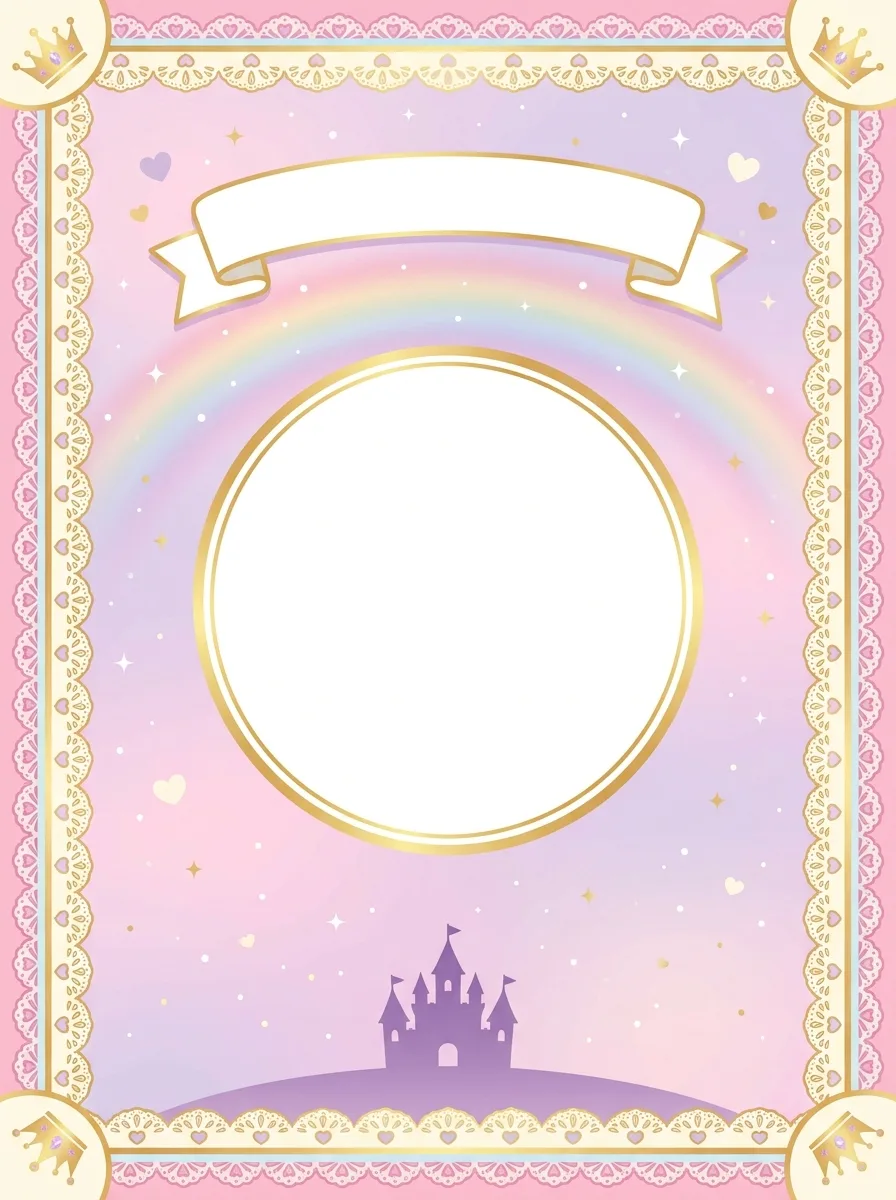
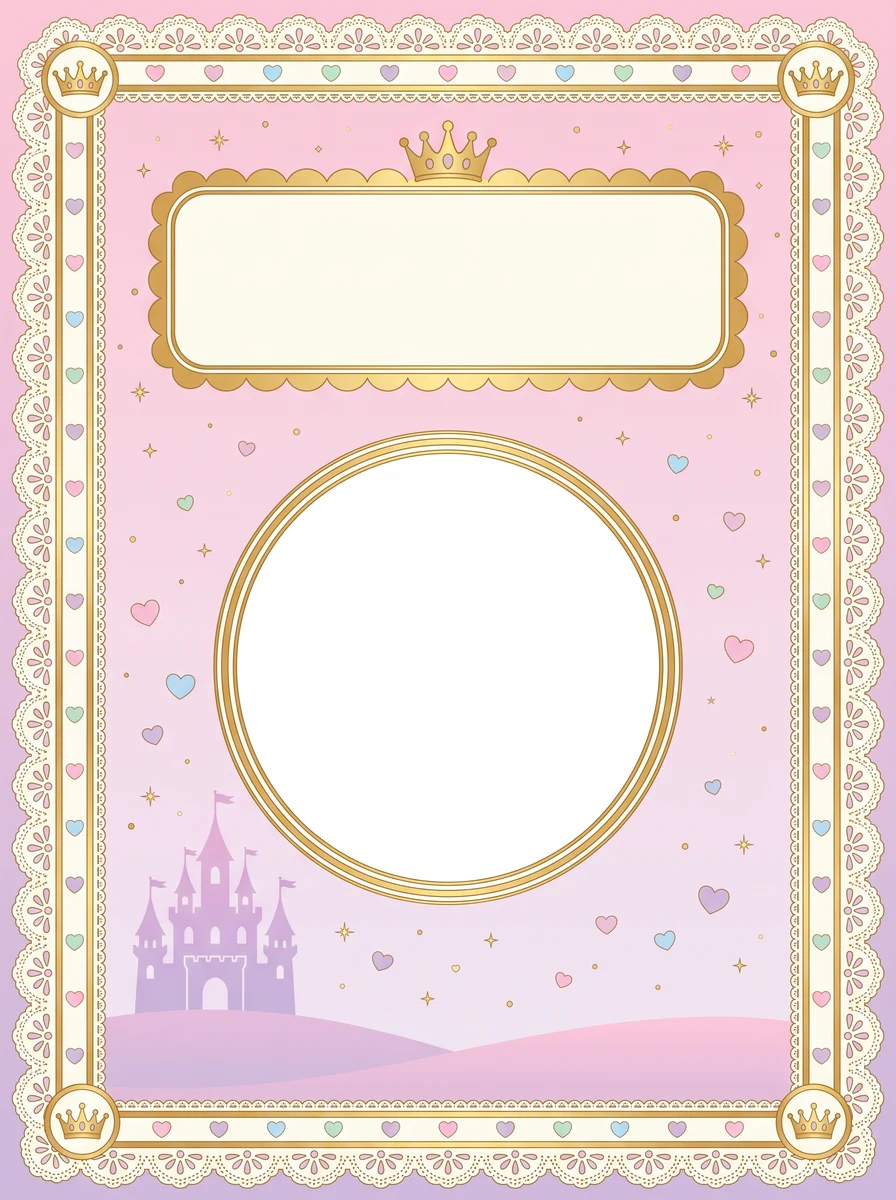
표지 제목이 리본 밖으로 흘러내리던 문제 + 공주나라 새 표지 틀
"팥죽 할머니와 호랑이"의 '랑이'가 리본 아래 표지 위에 떠 있었다(사장님 제보).

원인: 제목 칸의 높이·너비를 안 정해 두고 두 줄까지 허용했다. 리본 흰 자리는
표지 높이의 6% 남짓인데 두 줄은 그 두 배라 그대로 흘러내렸다. 너비도 58%로
고정이었는데 리본이 48%인 나라가 넷이라 옆으로도 삐져나오고 있었다.

고친 것:
- 제목 칸을 리본 크기로 못박고 그 안에서 가운데 맞춤으로 놓는다
- 긴 제목은 글자를 줄여 넣는다(coverTitleScale, 시험 포함) — 넘치는 대신 작아진다
- 일곱 나라의 리본 위치·높이·너비를 **표지 틀 그림에서 실제로 재서** 넣었다
  (눈대중 값이 최대 1% 어긋나 있었고, 너비는 넷이 리본보다 넓었다)

공주나라는 틀 자체를 새로 뽑았다(힉스필드). 제목 칸이 6.1% → 13.3%로
두 배 넘게 넓어져 긴 제목도 두 줄로 편하게 들어간다. 그림 원은 52% → 44%로
조금 작아졌지만 제목이 표지 위로 흘러내리는 것보다 낫다.

남은 것: 나머지 여섯 나라도 리본이 얕아 긴 제목은 여전히 작게 들어간다.
같은 방식으로 틀을 다시 뽑아야 완전히 풀린다.

diff --git a/src/lib/themes.ts b/src/lib/themes.ts
@@ -51,7 +51,10 @@ export type Theme = {
    */
   cover: {
     frame: string;
-    titleTop: string; // 리본 안 제목의 top %
+    titleTop: string; // 리본(제목 칸)의 세로 가운데 %
+    /** 제목 칸의 높이·너비(표지 대비 %). 안 적으면 기본값. 리본이 넓은 틀만 적는다. */
+    titleHeight?: string;
+    titleWidth?: string;
     circleTop: string; // 그림 원의 중심 top %
     circleWidth: string; // 그림 원의 지름 (틀 폭 대비 %)
     ink: string; // 제목·쪽수 글자색 (틀과 어울리는 짙은 색)
@@ -76,7 +79,9 @@ export const THEMES: Record<ThemeId, Theme> = {
     },
     cover: {
       frame: "/covers/frame-storybook.webp",
-      titleTop: "12%",
+      titleTop: "11.7%", // 아래 세 값은 표지 틀 그림에서 실제로 잰 것(리본 흰 칸)
+      titleHeight: "4.8%",
+      titleWidth: "43%",
       circleTop: "51.5%",
       circleWidth: "62%",
       ink: "#b45309", // 금테와 어울리는 앰버
@@ -100,7 +105,9 @@ export const THEMES: Record<ThemeId, Theme> = {
     cover: {
       // 전용 수채화 틀 — 잠든 여우·책더미·나뭇잎이 그려진 크림빛 프레임.
       frame: "/covers/frame-picturebook.webp",
-      titleTop: "14%",
+      titleTop: "14.4%", // 아래 세 값은 표지 틀 그림에서 실제로 잰 것(리본 흰 칸)
+      titleHeight: "6.9%",
+      titleWidth: "44%",
       circleTop: "52%",
       circleWidth: "52%",
       ink: "#a15c3e", // 틀의 크림·테라코타와 어울리는 짙은 브라운
@@ -117,7 +124,9 @@ export const THEMES: Record<ThemeId, Theme> = {
     icons: { voice: "/icons/func-mic.webp", book: "/themes/dino/icon-book.webp" },
     cover: {
       frame: "/covers/frame-dino.webp",
-      titleTop: "14%",
+      titleTop: "14.4%", // 아래 세 값은 표지 틀 그림에서 실제로 잰 것(리본 흰 칸)
+      titleHeight: "6.0%",
+      titleWidth: "44%",
       circleTop: "50.5%",
       circleWidth: "52%",
       ink: "#166534", // 정글 초록
@@ -134,7 +143,9 @@ export const THEMES: Record<ThemeId, Theme> = {
     icons: { voice: "/icons/func-mic.webp", book: "/themes/car/icon-book.webp" },
     cover: {
       frame: "/covers/frame-car.webp",
-      titleTop: "14.5%",
+      titleTop: "14.0%", // 아래 세 값은 표지 틀 그림에서 실제로 잰 것(리본 흰 칸)
+      titleHeight: "6.3%",
+      titleWidth: "55%",
       circleTop: "50.5%",
       circleWidth: "63%",
       ink: "#1d4ed8",
@@ -153,9 +164,13 @@ export const THEMES: Record<ThemeId, Theme> = {
     },
     cover: {
       frame: "/covers/frame-princess.webp",
-      titleTop: "15.5%",
-      circleTop: "50%",
-      circleWidth: "48%",
+      // 제목 명패가 넓어진 새 틀(2026-09-01). 값은 그림에서 실제로 재서 넣었다 —
+      // 흰 칸 세로 16.3~30.4%(가운데 23.3%), 그림 원 가운데 55.7%.
+      titleTop: "23.4%", // 아래 세 값은 표지 틀 그림에서 실제로 잰 것(리본 흰 칸)
+      titleHeight: "13.3%",
+      titleWidth: "56%",
+      circleTop: "55.7%",
+      circleWidth: "44%",
       ink: "#be185d",
     },
   },
@@ -169,7 +184,9 @@ export const THEMES: Record<ThemeId, Theme> = {
     icons: { voice: "/icons/func-mic.webp", book: "/themes/space/icon-book.webp" },
     cover: {
       frame: "/covers/frame-space.webp",
-      titleTop: "11.5%",
+      titleTop: "12.3%", // 아래 세 값은 표지 틀 그림에서 실제로 잰 것(리본 흰 칸)
+      titleHeight: "6.9%",
+      titleWidth: "59%",
       circleTop: "49.5%",
       circleWidth: "58%",
       ink: "#4338ca",
@@ -185,7 +202,9 @@ export const THEMES: Record<ThemeId, Theme> = {
     icons: { voice: "/icons/func-mic.webp", book: "/themes/ocean/icon-book.webp" },
     cover: {
       frame: "/covers/frame-ocean.webp",
-      titleTop: "14%",
+      titleTop: "15.0%", // 아래 세 값은 표지 틀 그림에서 실제로 잰 것(리본 흰 칸)
+      titleHeight: "6.2%",
+      titleWidth: "45%",
       circleTop: "50%",
       circleWidth: "57%",
       ink: "#0f766e",

diff --git a/src/components/Bookshelf.tsx b/src/components/Bookshelf.tsx
@@ -1,6 +1,7 @@
 "use client";
 
 import Link from "next/link";
+import { coverTitleScale } from "@/lib/fit-text";
 import { useTheme } from "./ThemeProvider";
 
 /**
@@ -92,12 +93,28 @@ export function Bookshelf({ books, cols = 5 }: { books: ShelfItem[]; cols?: numb
                 <div className="pointer-events-none absolute inset-x-0 top-0 h-1.5 bg-gradient-to-b from-black/20 to-transparent" />
                 <div className="pointer-events-none absolute inset-x-0 bottom-0 h-2 bg-gradient-to-t from-black/25 to-transparent" />
 
-                {/* 제목 — 리본 안 */}
+                {/*
+                  제목 — 리본 안.
+
+                  리본의 흰 자리는 표지 높이의 6~7%밖에 안 된다. 예전에는 높이를 안
+                  정해 두고 두 줄까지 허용해서, 두 줄이 되는 순간 아랫줄이 리본 밖으로
+                  흘러내렸다("팥죽 할머니와 호랑이"의 '랑이'가 리본 아래 떠 있었다).
+                  이제 리본만 한 칸을 정해 두고, 그 안에서 가운데 맞춤으로 놓는다.
+                  긴 제목은 글자를 줄여 넣는다 — 넘치는 대신 작아진다.
+                */}
                 <h2
-                  className="absolute left-1/2 w-[56%] -translate-x-1/2 overflow-hidden text-center text-[11px] font-extrabold leading-tight [display:-webkit-box] [-webkit-box-orient:vertical] [-webkit-line-clamp:2] sm:text-[13px]"
-                  style={{ top: `calc(${cover.titleTop} - 2%)`, color: cover.ink }}
+                  className="absolute left-1/2 flex -translate-x-1/2 -translate-y-1/2 items-center justify-center overflow-hidden text-center font-extrabold leading-[1.15]"
+                  style={{
+                    top: cover.titleTop,
+                    width: cover.titleWidth ?? "58%",
+                    height: cover.titleHeight ?? "9%",
+                    color: cover.ink,
+                    fontSize: `${13 * coverTitleScale(book.title)}px`,
+                  }}
                 >
-                  {book.title}
+                  <span className="[display:-webkit-box] [-webkit-box-orient:vertical] [-webkit-line-clamp:2] overflow-hidden">
+                    {book.title}
+                  </span>
                 </h2>
 
                 {/* 그림 — 원 창 안 */}

diff --git a/src/lib/fit-text.test.ts b/src/lib/fit-text.test.ts
@@ -1,6 +1,6 @@
 import { describe, it } from "node:test";
 import assert from "node:assert/strict";
-import { fitScale, MIN_FIT } from "./fit-text.ts";
+import { coverTitleScale, fitScale, MIN_FIT } from "./fit-text.ts";
 
 describe("fitScale — 본문이 칸에 들어가게 줄이기", () => {
   it("이미 들어가면 줄이지 않는다", () => {
@@ -42,5 +42,26 @@ describe("fitScale — 본문이 칸에 들어가게 줄이기", () => {
     const short = fitScale((s) => s <= 0.95);
     const long = fitScale((s) => s <= 0.55);
     assert.ok(long < short, `긴 쪽(${long})이 짧은 쪽(${short})보다 작아야 한다`);
+  });
+});
+
+describe("coverTitleScale", () => {
+  it("짧은 제목은 줄이지 않는다", () => {
+    assert.equal(coverTitleScale("흥부와 놀부"), 1);
+  });
+
+  it("길수록 더 줄인다", () => {
+    const a = coverTitleScale("팥죽 할머니와 호랑이");
+    const b = coverTitleScale("노란 킥보드와 따르릉 약속");
+    assert.ok(a < 1, "긴 제목은 줄여야 한다");
+    assert.ok(b < a, "더 길면 더 줄여야 한다");
+  });
+
+  it("아무리 길어도 읽을 수 있는 선에서 멈춘다", () => {
+    assert.ok(coverTitleScale("아주아주 길고 긴 제목을 가진 어떤 동화책 이야기") >= 0.6);
+  });
+
+  it("앞뒤 공백은 세지 않는다", () => {
+    assert.equal(coverTitleScale("  흥부와 놀부  "), coverTitleScale("흥부와 놀부"));
   });
 });

diff --git a/src/lib/fit-text.ts b/src/lib/fit-text.ts
@@ -36,3 +36,24 @@ export function fitScale(
   }
   return low;
 }
+
+/**
+ * 표지 리본 안에 들어가도록 제목 글자를 얼마나 줄일지.
+ *
+ * 리본(표지 틀 그림에 그려진 띠)의 흰 자리는 표지 높이의 6~7%밖에 안 된다.
+ * 그런데 제목은 두 줄까지 허용돼 있어서, 두 줄이 되는 순간 아랫줄이 리본
+ * 밖으로 흘러내렸다 — "팥죽 할머니와 호랑이"의 '랑이'가 리본 아래 표지 위에
+ * 떠 있었다(사장님 제보).
+ *
+ * 브라우저에서 재지 않고 글자 수로 정한다. 표지는 한 화면에 여러 권이 깔리는데
+ * 권마다 재면 그릴 때마다 레이아웃이 출렁이고, 제목 길이는 미리 알 수 있다.
+ */
+export function coverTitleScale(title: string): number {
+  const n = [...title.trim()].length;
+  if (n <= 6) return 1;
+  if (n <= 8) return 0.92;
+  if (n <= 10) return 0.84;
+  if (n <= 13) return 0.76;
+  if (n <= 16) return 0.68;
+  return 0.6;
+}
